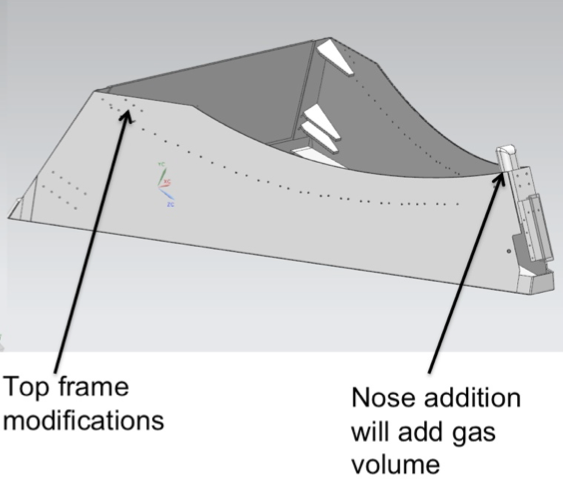
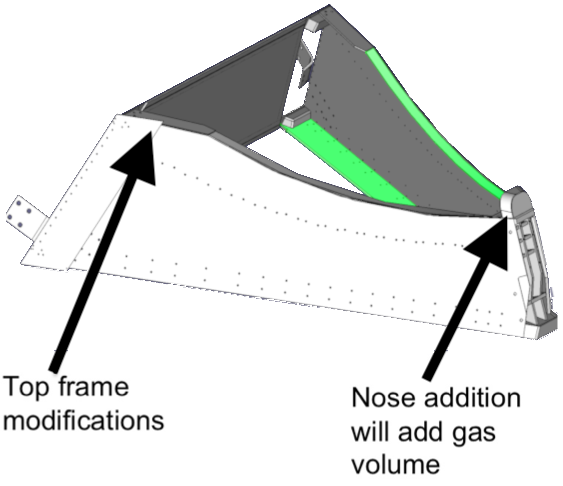
improbed ltcc box image, finalizing geometry description

diff --git a/ltcc/simulation.tex b/ltcc/simulation.tex
@@ -15,7 +15,7 @@ A 3D view of the simulated geometry of the LTCC \F{simOverview}. The LTCC GEMC s
 	\label{fig:simOverview}
 \end{figure}
 
-\subsection{Mirrors Geometry}
+\subsection{Geometry}
 
 The Cherenkov light is emitted on a small cone around the direction of the emitting particle. The angle of
 incidence of the particles entering the LTCC can be different from the angle at the production vertex due to the bending of the tracks
@@ -50,13 +50,25 @@ In the geant4 implementation the elliptical mirrors are composed by, for each se
 \end{enumerate}
 
 The hyperbolic mirrors are made by polycon that approximate the mathematical shape of the mirrors using a number of faucets
-varying from 10 (smallest mirror) to 30 faucets (longest mirrors).
+varying from 10 (smallest mirror) to 30 faucets (longest mirrors). The measured reflectivity is imported in the simulation as
+optical property of the mirror material.
 
 
-\subsection{Winston Cones Geometry}
-The 
+The CAD engineering models of the WC have been used in the simulations, see \F{wcSimulation}. The measured reflectivity is imported in the simulation as
+optical property of the WC material.
 
-\subsection{Box Support Structure}
+\begin{figure}
+	\centering
+	\includegraphics[width=0.95\columnwidth,keepaspectratio]{img/wcLargeReal.png}
+	\includegraphics[width=0.95\columnwidth,keepaspectratio]{img/wcLargeSim.png}
+	\caption{Top: a picture of the large WC used for segments 12 to 18. Bottom: the tesselated volume used in the
+            simulation, imported fromthe CAD engineering model.}
+	\label{fig:wcSimulation}
+\end{figure}
+
+
+The LTCC box support structure was imported from the engineering model shown in \F{boxCut}.
+
 
 support structure in active area  + nose
 

diff --git a/ltcc/box.tex b/ltcc/box.tex
@@ -77,8 +77,8 @@ compensated for the walls deformations.
 \begin{figure}
 	\centering
 	\includegraphics[width=1.0\columnwidth,keepaspectratio]{img/spineTest.png}
-	\caption{Spine tests: a laser was mounted on a structure attached to one LTCC sector, pointing a laser line that was focused by the mirrors to a target on the face of one PMT. The focused laser
-            spot never changed during the box movements and rotations.}
+	\caption{Spine tests: a laser was mounted on a structure attached to one LTCC sector, pointing a laser line that was focused by the mirrors to a
+            target on the face of one PMT. The focused laser spot never changed during the box movements and rotations.}
 	\label{fig:spineTest}
 \end{figure}
 

diff --git a/ltcc/conclusionsAndAcknowledgement.tex b/ltcc/conclusionsAndAcknowledgement.tex
@@ -3,7 +3,7 @@
 \begin{figure}
 	\centering
 	\includegraphics[width=1.0\columnwidth,keepaspectratio]{img/ltccInstalled.png}
-	\caption{Average number of reflections calculated from simulations studies.}
+	\caption{The LTCC sectors installed after refurbishment on the CLAS12 forward carriage.}
 	\label{fig:ltccInstalled}
 \end{figure}
 
